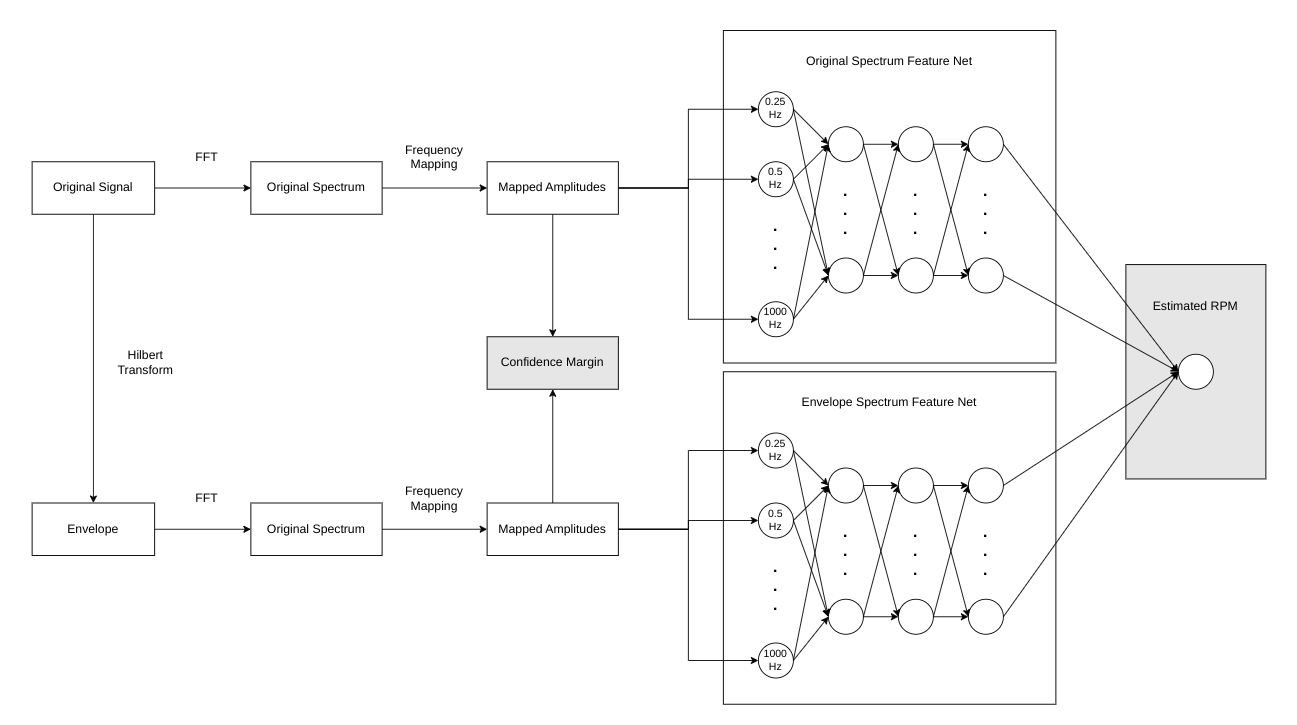
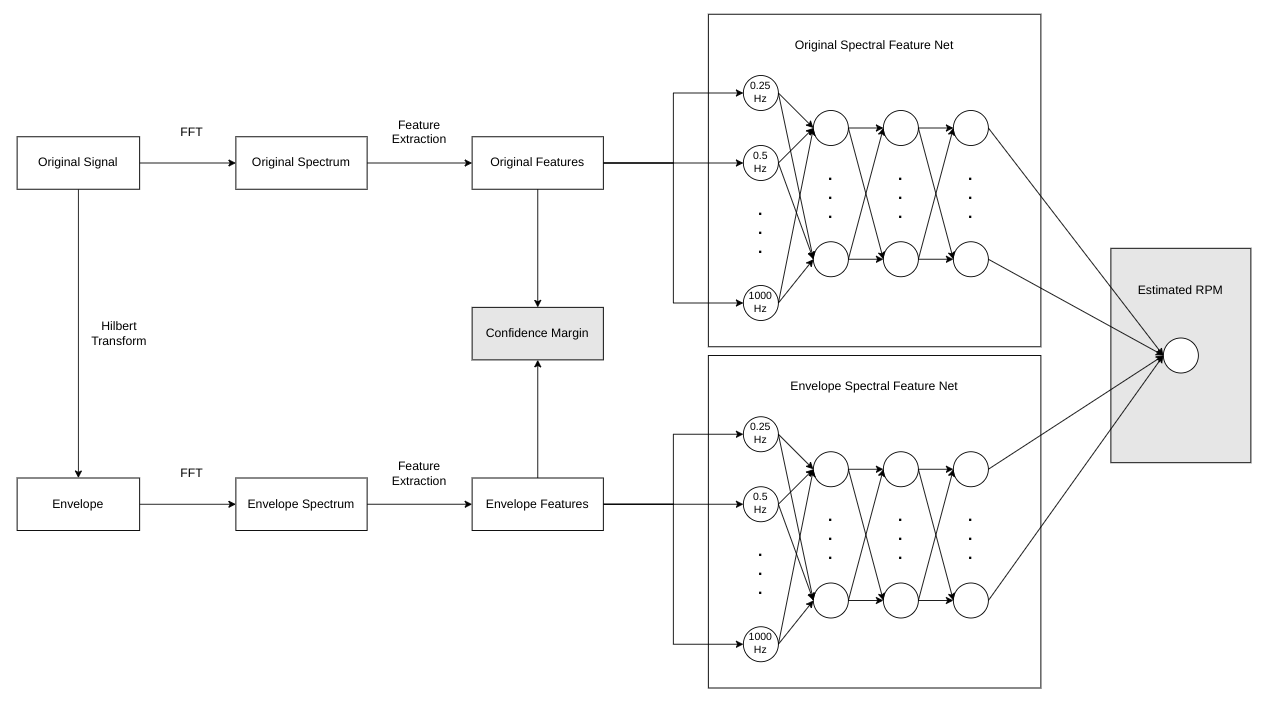
Complete high-level estimation pipeline outlined

diff --git a/app/routes/estimation.py b/app/routes/estimation.py
@@ -1,0 +1,70 @@
+"""
+
+Estimator routes
+
+"""
+
+# Importing packages and modules
+from flask import Blueprint, request, jsonify
+import json
+from sources.fft import FFT
+from sources.envelope_analysis import EnvelopeAnalysis
+from sources.feature_extractor import FeatureExtractor
+from sources.estimator import Estimator
+
+# Setting the blueprint
+estimation_blueprint = Blueprint("estimation_routes", __name__)
+
+# Estimation route
+@estimation_blueprint.route("/estimation/estimate", methods=["POST",])
+def estimate():
+
+    # Trying to estimate RPM...
+    try:
+
+        # Extracting the payload
+        data = json.loads(request.data)
+        signal = data["signal"]
+        sampling_frequency = data["sampling_frequency"]
+
+        # Computing the signal envelope
+        envelope_analysis = EnvelopeAnalysis()
+        envelope = envelope_analysis.compute(signal)
+
+        # Computing the spectrum of both the original signal and the envelope
+        fft = FFT()
+        original_amplitudes, original_frequencies = fft.compute(signal, sampling_frequency)
+        envelope_amplitudes, envelope_frequencies = fft.compute(envelope, sampling_frequency)
+
+        # Adopting the amplitudes of relevant frequency bands as features
+        feature_extractor = FeatureExtractor()
+        original_features = feature_extractor.extract(original_amplitudes, original_frequencies)
+        envelope_features = feature_extractor.extract(envelope_amplitudes, envelope_frequencies)
+
+        # Processing the features through the deep learning model
+        estimator = Estimator()
+        estimated_rpm = estimator.estimate(original_features, envelope_features)
+
+        # Setting up the results
+        results = {
+            "estimation_success": True,
+            "estimated_rpm": estimated_rpm,
+            "confidence_margin": feature_extractor.confidence_margin
+        }
+        status_code = 200
+
+    # If it was not possible to estimate...
+    except Exception as ex:
+
+        # Logging the exception
+        print(ex)
+
+        # Setting up the results
+        results = {
+            "estimation_success": False,
+            "estimated_rpm": None,
+            "confidence_margin": None
+        }
+        status_code = 500
+
+    return jsonify(results), status_code

diff --git a/app/sources/fft.py b/app/sources/fft.py
@@ -3,37 +3,32 @@
 
 """
 
-Computing signal spectra by applying the Fast Fourier Transform (FFT)
+Computing signal spectrum by applying the Fast Fourier Transform (FFT)
 
 """
 
 # Importing packages and modules
 import numpy as np
-from sources.utils import load_config
+from sources.config import Config
 
 # FFT class
 class FFT:
 
     # Constructor
-    def __init__(self, sampling_frequency: float):
-
-        # Instance's parameters
-        self.sampling_frequency = sampling_frequency
+    def __init__(self):
 
         # Configuration parameters
-        config = load_config()
-        self.min_frequency = config["min_frequency"]
-        self.precision = config["precision"]
-        self.eps = config["eps"]
+        config = Config()
+        self.min_frequency = config.min_frequency
+        self.precision = config.precision
+        self.eps = config.eps
 
     #  Computing the FFT
-    def compute(self, signals: np.ndarray):
-        frequencies = np.fft.fftfreq(signals.shape[1], 1/self.sampling_frequency)
+    def compute(self, signal: list, sampling_frequency: float):
+        frequencies = np.fft.fftfreq(len(signal), 1/sampling_frequency)
         frequencies = frequencies[:int(frequencies.shape[0]/2)]
-        amplitudes = np.abs(np.fft.fft(signals)*(2/signals.shape[1]))
-        amplitudes = amplitudes[:, :int(amplitudes.shape[1]/2)]
-        min_index = np.where(frequencies > self.min_frequency)[0][0]
-        amplitudes[:, :min_index] = self.eps
+        amplitudes = np.abs(np.fft.fft(signal)*(2/len(signal)))
+        amplitudes = amplitudes[:int(amplitudes.shape[0]/2)]
         amplitudes = np.round(amplitudes, self.precision)
         frequencies = np.round(frequencies, self.precision)
         return amplitudes, frequencies

diff --git a/app/sources/feature_extractor.py b/app/sources/feature_extractor.py
@@ -1,0 +1,36 @@
+#!/usr/bin/env python3
+# -*- coding: utf-8 -*-
+
+"""
+
+Extracting features from original signal and envelope spectra to be processed by the deep learning model
+
+"""
+
+# Importing packages and modules
+from sources.config import Config
+
+# Feature Extractor class
+class FeatureExtractor:
+
+    # Constructor
+    def __init__(self):
+
+        # Configuration parameters
+        config = Config()
+        self.eps = config.eps
+
+        # Instance parameters
+        self.confidence_margin = config.eps
+
+    # Updating the confidence margin according to the current feature extraction
+    def update_confidence_margin(self, frequencies):
+        resolution = frequencies[1] - frequencies[0]
+        if resolution > self.confidence_margin/60:
+            self.confidence_margin = resolution*60
+
+    #  Computing the FFT
+    def extract(self, amplitudes: list, frequencies: list):
+        features = []
+        self.update_confidence_margin(frequencies)
+        return features

diff --git a/app/sources/envelope_analysis.py b/app/sources/envelope_analysis.py
@@ -3,14 +3,14 @@
 
 """
 
-Computing signal envelopes by applying the Hilbert Transform
+Computing signal envelope by applying the Hilbert Transform
 
 """
 
 # Importing packages and modules
 import numpy as np
 from scipy.signal import hilbert
-from sources.utils import load_config
+from sources.config import Config
 
 # Envelope analysis class
 class EnvelopeAnalysis:
@@ -19,11 +19,11 @@ class EnvelopeAnalysis:
     def __init__(self):
 
         # Configuration parameters
-        config = load_config()
-        self.precision = config["precision"]
-        self.eps = config["eps"]
+        config = Config()
+        self.precision = config.precision
+        self.eps = config.eps
 
     # Computing the envelopes
-    def compute(self, signals):
-        envelopes = np.round(np.abs(hilbert(signals)), self.precision)
-        return envelopes
+    def compute(self, signal: list):
+        envelope = np.round(np.abs(hilbert(signal)), self.precision)
+        return envelope

diff --git a/app/sources/config.py b/app/sources/config.py
@@ -1,0 +1,22 @@
+#!/usr/bin/env python3
+# -*- coding: utf-8 -*-
+
+"""
+
+Configuration parameters
+
+"""
+
+# Importing packages
+import yaml
+
+# Configuration parameter class
+class Config:
+
+    # Constructor
+    def __init__(self):
+        with open("./app/sources/config.yaml", "r") as file:
+            config = yaml.safe_load(file)
+        self.min_frequency = float(config["min_frequency"])
+        self.precision = int(config["precision"])
+        self.eps = float(config["eps"])

diff --git a/app/main.py b/app/main.py
@@ -9,14 +9,14 @@ Main script
 
 # Importing packages and modules
 from flask import Flask
-from routes.rpm_estimator import rpm_estimator_blueprint
+from routes.estimation import estimation_blueprint
 
 # Setting the app
 app = Flask(__name__)
 app.config["VERSION"] = "1.1.0"
 
 # Registering the blueprints
-app.register_blueprint(rpm_estimator_blueprint)
+app.register_blueprint(estimation_blueprint)
 
 # Running the app
 if __name__ == "__main__":

diff --git a/app/sources/estimator.py b/app/sources/estimator.py
@@ -1,0 +1,20 @@
+#!/usr/bin/env python3
+# -*- coding: utf-8 -*-
+
+"""
+
+Estimating the RPM of a signal from the original and envelope spectrum features
+
+"""
+
+# Estimator class
+class Estimator:
+
+    # Constructor
+    def __init__(self):
+        pass
+
+    #  Computing the FFT
+    def estimate(self, original_features: list, envelope_features: list):
+        estimated_rpm = 1200
+        return estimated_rpm

diff --git a/README.md b/README.md
@@ -18,13 +18,14 @@ Given a vibration signal collected from a machine at a specified sampling freque
 
 ### Inputs
 
-- `signals (List[List[float]])`: signals to have their RPM estimated.
-- `sampling_frequencies (List[float])`: sampling frequencies used to acquire each of the signals.
+- `signal (List[float])`: signal to have its RPM estimated.
+- `sampling_frequency (float)`: sampling frequency used to acquire the signal.
 
 ### Outputs
 
-- `estimated_rpms (List[float])`: the estimated RPM value.
-- `confidence_margins (List[float])`: the estimation confidence margin.
+- `estimation_success (bool)`: estimation task status.
+- `estimated_rpm (float)`: estimated RPM value.
+- `confidence_margin (float)`: estimation confidence margin.
 
 ### Conditions
 
